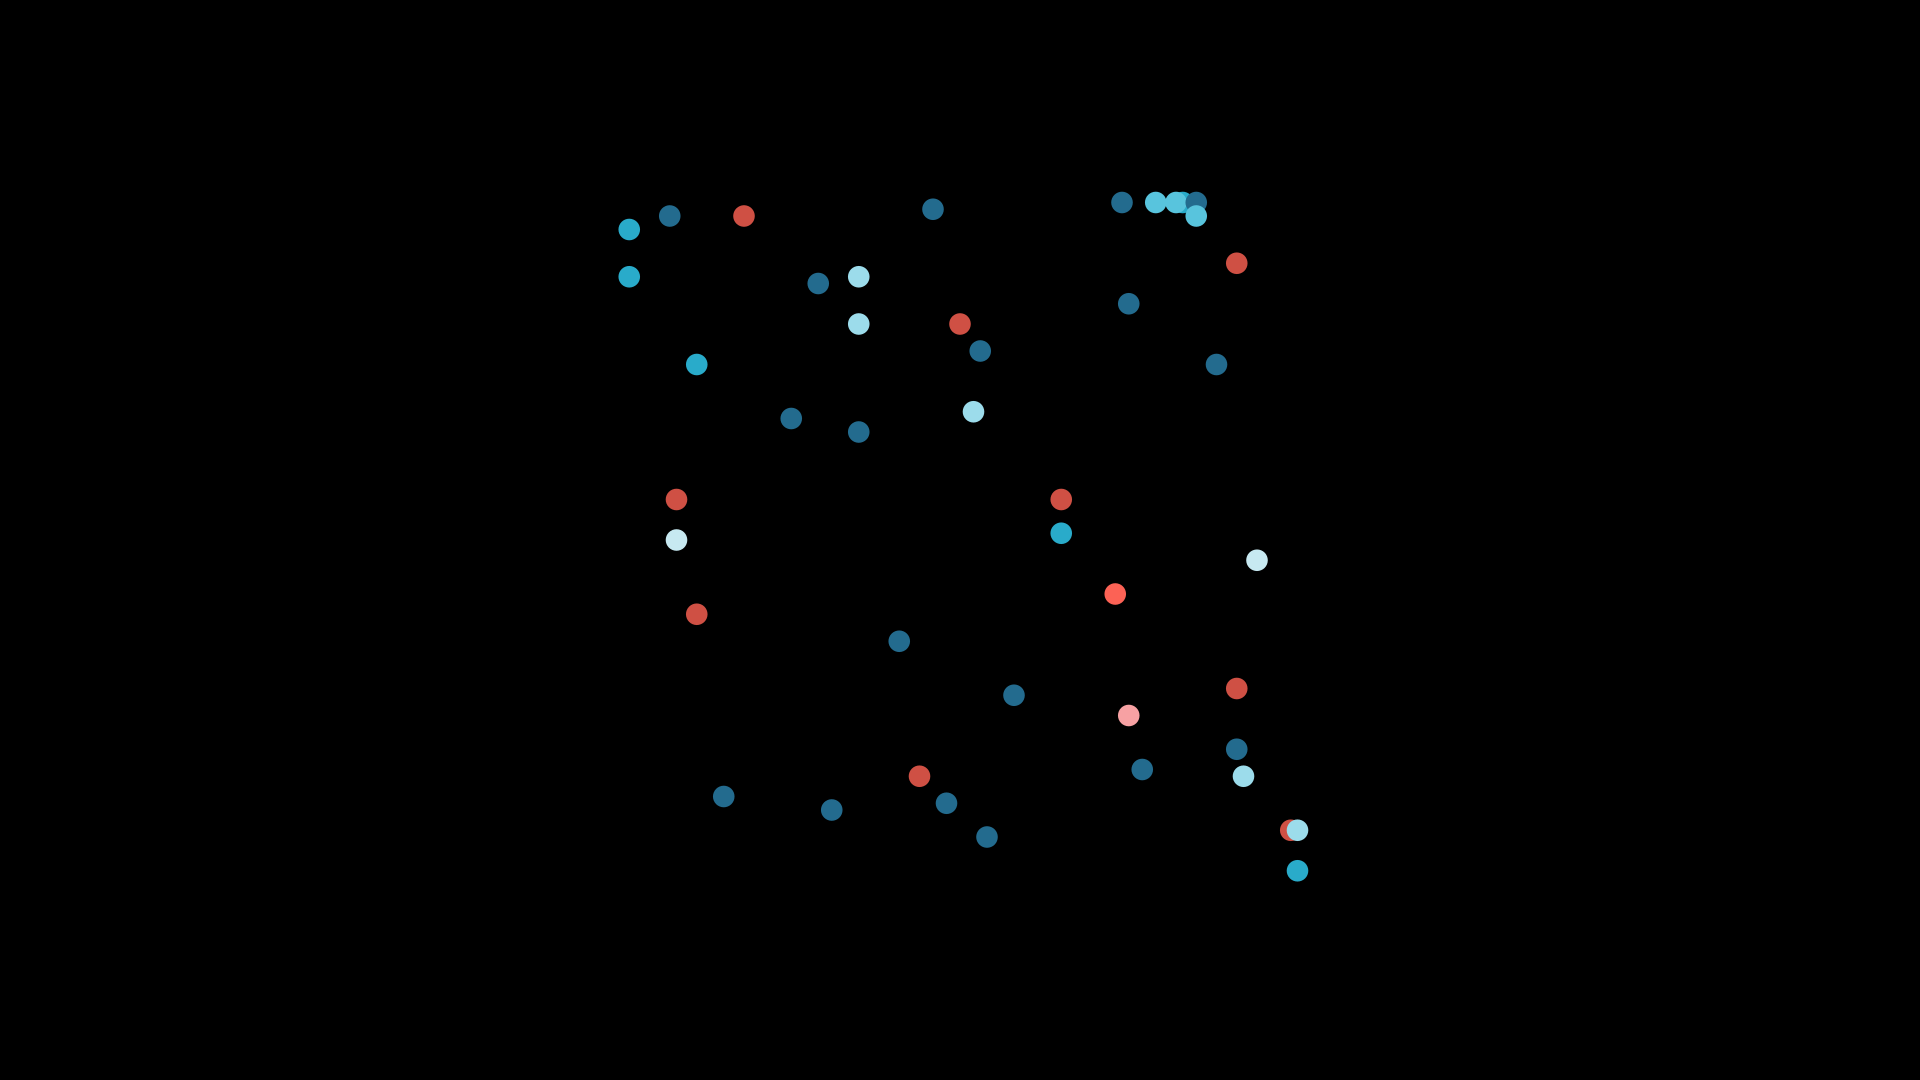
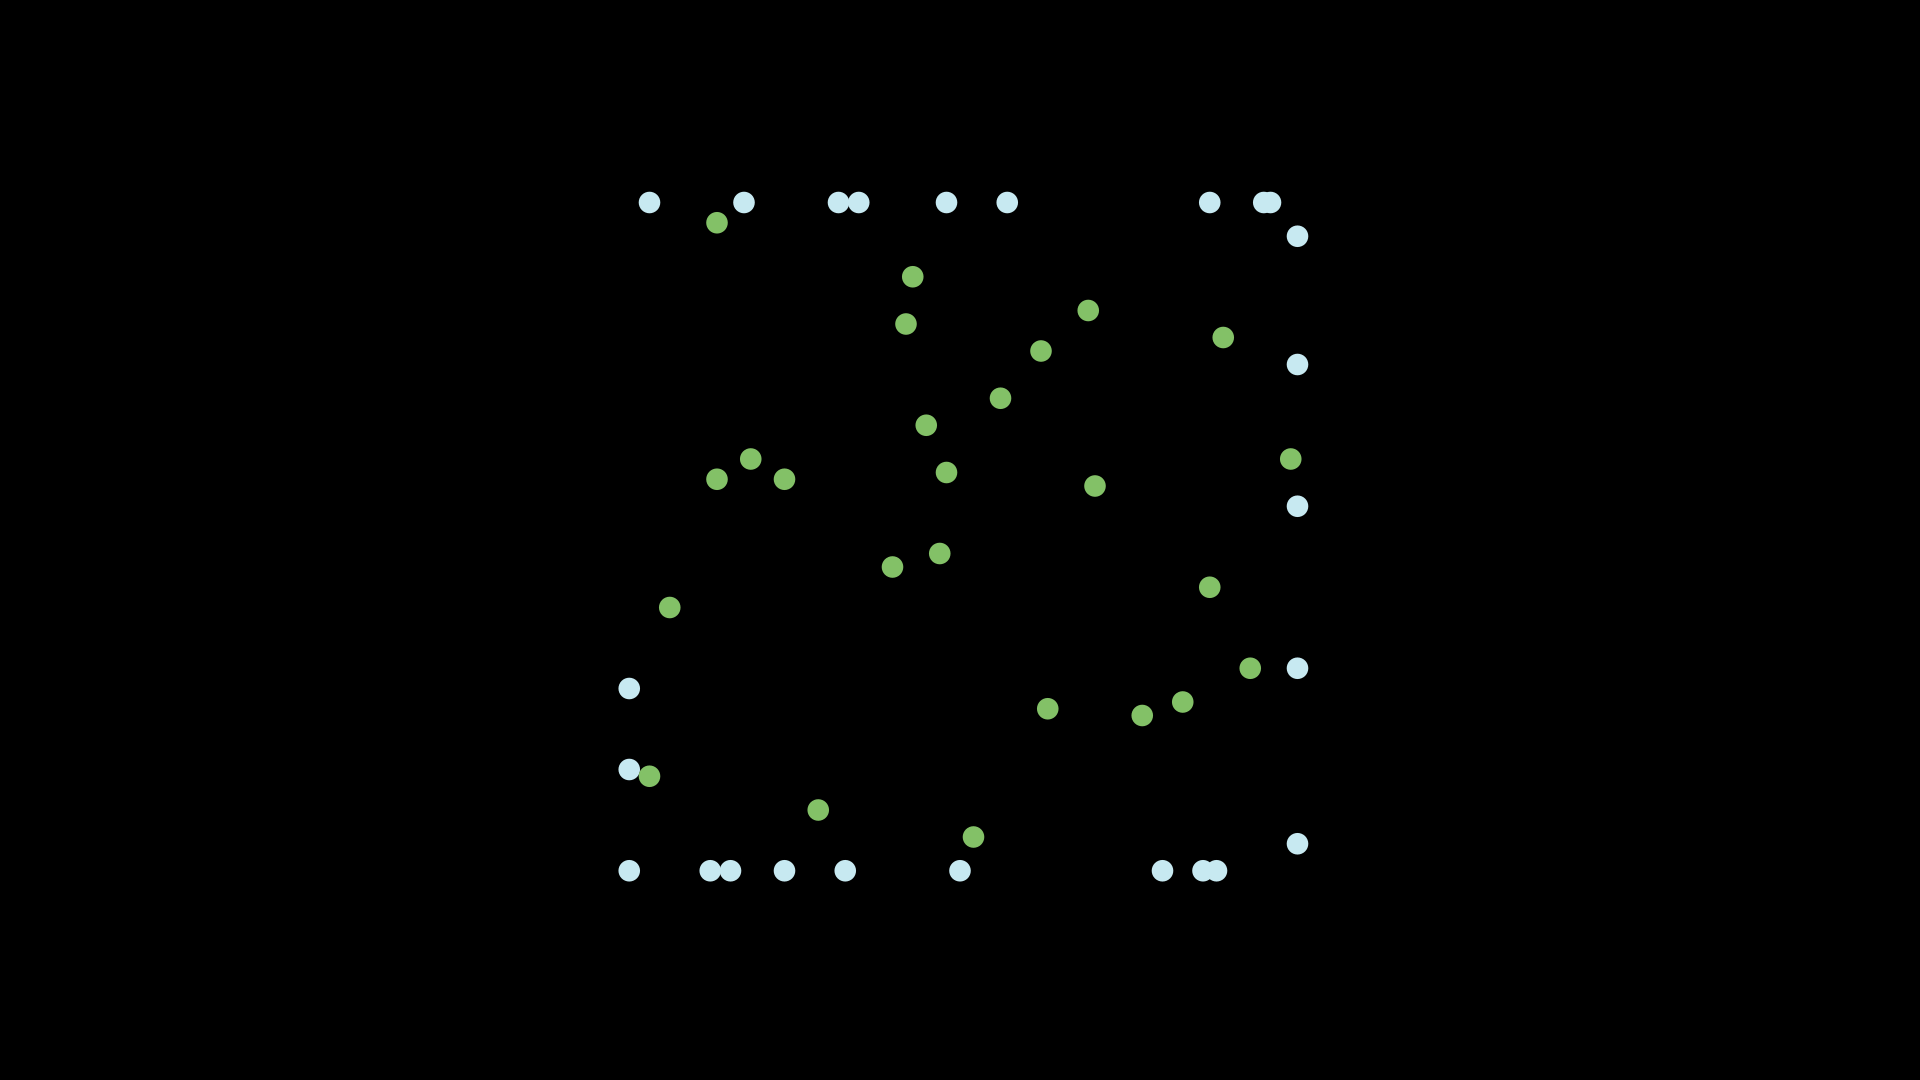
Ajout prévisualiser le territoire

diff --git a/Application/UI/Form.py b/Application/UI/Form.py
@@ -3,9 +3,9 @@ import tkinter as tk
 from PIL import Image
 import os
 from matplotlib.backends.backend_tkagg import FigureCanvasTkAgg
-import FormGraph as fg
-import sys
 import pathlib
+import sys
+import FormGraph as fg
 import math
 workingDirectory = pathlib.Path().resolve()
 sys.path.append(str(workingDirectory) + '\Application')
@@ -578,9 +578,6 @@ class Form(ct.CTk):
 
                 lblErrorInForm.configure(text="OK", text_color="green")
             else:
-                fg.generations = fg.objectsToCoordinates(fg.generateLulus())
-                btnGraph.grid(row=11, column=0, columnspan=2, padx=20, pady=10, sticky="we")
-                btnSave.grid(row=11, column=2, padx=20, pady=10, sticky="we")
                 lblErrorInForm.configure(text="Erreur: Veuillez remplir convenablement le formulaire", text_color="red")
                   
         btnSimulate = ct.CTkButton(master=self.frame_1, text="Lancer la Simulation", command=get_allBeforeSimulation)
@@ -749,12 +746,38 @@ class Form(ct.CTk):
             refreshButtons()            
 
         def preview():
-            current_path = os.path.dirname(os.path.realpath(__file__))
-            preview = ct.CTkImage(Image.open(current_path + "/preview.png"), size=(700, 350))
-            previewImage = ct.CTkLabel(master=self, text="", image=preview)
-            previewImage.grid(row=0, column=0, sticky="snwe")
-            btnClose = ct.CTkButton(master=self, text="Fermer la prévisualisation", command=lambda:closePreview(previewImage, btnClose))
-            btnClose.grid(row=1, column=0, padx=20, pady=10, sticky="we")
+            validMapSizeX = get_inputMapSizeX()
+            validMapSizeY = get_inputMapSizeY()
+            validStartFood = get_inputStartFood()
+            validStartLulu = get_inputStartLulu()
+            validEnergy = get_inputEnergy()
+            validSpeed = get_inputSpeed()
+            validSense = get_inputSense()
+            validSize = get_inputSize()
+            validMutation = get_inputMutation()
+            validGeneration = get_inputGeneration()
+            print(validMapSizeX)
+            if(type(validMapSizeX) is int
+               and type(validMapSizeY) is int
+               and type(validStartFood) is int
+               and type(validStartLulu) is int
+               and type(validEnergy) is int
+               and type(validSpeed) is int
+               and type(validSense) is int
+               and type(validSize) is int
+               and type(validMutation) is int
+               and type(validGeneration) is int):
+                
+                Simulation.newMap(validMapSizeX, validMapSizeY, validStartFood, validStartLulu)
+                # current_path = os.path.dirname(os.path.realpath(__file__))
+                current_path = os.getcwd()
+                preview = ct.CTkImage(Image.open(str(current_path) + "\media\images\VisualizeLulus_ManimCE_v0.17.2.png"), size=(700, 350))
+                previewImage = ct.CTkLabel(master=self, text="", image=preview)
+                previewImage.grid(row=0, column=0, sticky="snwe")
+                btnClose = ct.CTkButton(master=self, text="Fermer la prévisualisation", command=lambda:closePreview(previewImage, btnClose))
+                btnClose.grid(row=1, column=0, padx=20, pady=10, sticky="we")
+            else:
+                lblErrorInForm.configure(text="Erreur: Veuillez remplir convenablement le formulaire", text_color="red")
 
         def closePreview(previewImage, btnClose):
             previewImage.destroy()
@@ -773,6 +796,6 @@ class Form(ct.CTk):
         lblErrorInForm = ct.CTkLabel(master=self.frame_1, height=100, justify=ct.CENTER, text="")
         lblErrorInForm.grid(row=13, column=0, columnspan=3, padx=20, pady=10)
 
-if __name__ == "__main__":
-    app = Form()
-    app.mainloop()
+# if __name__ == "__main__":
+#     app = Form()
+#     app.mainloop()

diff --git a/Application/main.py b/Application/main.py
@@ -1,68 +1,9 @@
-from manim import *
-from manim.utils.file_ops import open_file as open_media_file
-import SimulationManager as Simulation
-import Models.Territory as Territory
-from Models.Lulu import Lulu
-from Models.Food import Food
-from Models.Position import Position
-import time
-import random
-
-class VisualizeLulus(Scene):
-    def construct(self):
-
-        items = Territory.getMap()
-        # SIZE = 1/5 du plus petit x ou y?
-        SIZE=Territory.getSizeX()/5 if Territory.getSizeX() < Territory.getSizeY() else Territory.getSizeY()/5
-        # CENTERX = /2
-        CENTERX = Territory.getSizeX()/2
-        # CENTERY = /2
-        CENTERY = Territory.getSizeY()/2
-
-        groupdots = VGroup()
-
-        maxSize = max(lulu.size for lulu in Territory.getLulus())
-        minSize = min(lulu.size for lulu in Territory.getLulus())
-        rangeOfSizes = maxSize - minSize
-
-        for position in items:
-            item = items.get(position)
-            if(type(item) == Lulu):
-                if(item.isDone):
-                    rangeOfColors = rangeOfSizes/6
-                    if item.size <= minSize + (rangeOfColors):
-                        dot = Dot([(position.x - CENTERX)/SIZE, (position.y - CENTERY)/SIZE, 0], color=RED_A)
-                    elif item.size <= minSize + 2*(rangeOfColors):
-                        dot = Dot([(position.x - CENTERX)/SIZE, (position.y - CENTERY)/SIZE, 0], color=RED_B)
-                    elif item.size <= minSize + 3*(rangeOfColors):
-                        dot = Dot([(position.x - CENTERX)/SIZE, (position.y - CENTERY)/SIZE, 0], color=RED_C)
-                    elif item.size <= minSize + 4*(rangeOfColors):
-                        dot = Dot([(position.x - CENTERX)/SIZE, (position.y - CENTERY)/SIZE, 0], color=RED_D)
-                    else:
-                        dot = Dot([(position.x - CENTERX)/SIZE, (position.y - CENTERY)/SIZE, 0], color=RED_E)
-                else:
-                    rangeOfColors = rangeOfSizes/6
-                    if item.size <= minSize + (rangeOfColors):
-                        dot = Dot([(position.x - CENTERX)/SIZE, (position.y - CENTERY)/SIZE, 0], color=BLUE_A)
-                    elif item.size <= minSize + 2*(rangeOfColors):
-                        dot = Dot([(position.x - CENTERX)/SIZE, (position.y - CENTERY)/SIZE, 0], color=BLUE_B)
-                    elif item.size <= minSize + 3*(rangeOfColors):
-                        dot = Dot([(position.x - CENTERX)/SIZE, (position.y - CENTERY)/SIZE, 0], color=BLUE_C)
-                    elif item.size <= minSize + 4*(rangeOfColors):
-                        dot = Dot([(position.x - CENTERX)/SIZE, (position.y - CENTERY)/SIZE, 0], color=BLUE_D)
-                    else:
-                        dot = Dot([(position.x - CENTERX)/SIZE, (position.y - CENTERY)/SIZE, 0], color=BLUE_E)
-            elif(type(item) == Food):
-                dot = Dot([(position.x - CENTERX)/SIZE, (position.y - CENTERY)/SIZE, 0], color=GREEN)
-            groupdots.add(dot)
-
-        self.add(groupdots)
-
-def renderAnimation():
-    """Génère une image de l'état actuel du :class:`Territory`
-    """
-    scene = VisualizeLulus()
-    scene.render()
+import pathlib
+import sys
+workingDirectory = pathlib.Path().resolve()
+sys.path.append(str(workingDirectory) + '\\Application\\UI')
+from Form import Form
 
 if __name__ == '__main__':
-    Simulation.__run__(100, 100, 50, 10, 25, 25, 10, 10000000, 100, 50)
+    app = Form()
+    app.mainloop()

diff --git a/Application/SimulationManager.py b/Application/SimulationManager.py
@@ -1,10 +1,71 @@
 import Models.Territory as Territory
 import time
-
-# À enlever -> pour test
-import random
+from manim import *
+from manim.utils.file_ops import open_file as open_media_file
+from Models.Lulu import Lulu
+from Models.Food import Food
 
 generationMoves = []
+class VisualizeLulus(Scene):
+    def construct(self):
+
+        items = Territory.getMap()
+        # SIZE = 1/5 du plus petit x ou y?
+        SIZE=Territory.getSizeX()/5 if Territory.getSizeX() < Territory.getSizeY() else Territory.getSizeY()/5
+        # CENTERX = /2
+        CENTERX = Territory.getSizeX()/2
+        # CENTERY = /2
+        CENTERY = Territory.getSizeY()/2
+
+        groupdots = VGroup()
+
+        maxSize = max(lulu.size for lulu in Territory.getLulus())
+        minSize = min(lulu.size for lulu in Territory.getLulus())
+        rangeOfSizes = maxSize - minSize
+
+        for position in items:
+            item = items.get(position)
+            if(type(item) == Lulu):
+                if(item.isDone):
+                    rangeOfColors = rangeOfSizes/6
+                    if item.size <= minSize + (rangeOfColors):
+                        dot = Dot([(position.x - CENTERX)/SIZE, (position.y - CENTERY)/SIZE, 0], color=RED_A)
+                    elif item.size <= minSize + 2*(rangeOfColors):
+                        dot = Dot([(position.x - CENTERX)/SIZE, (position.y - CENTERY)/SIZE, 0], color=RED_B)
+                    elif item.size <= minSize + 3*(rangeOfColors):
+                        dot = Dot([(position.x - CENTERX)/SIZE, (position.y - CENTERY)/SIZE, 0], color=RED_C)
+                    elif item.size <= minSize + 4*(rangeOfColors):
+                        dot = Dot([(position.x - CENTERX)/SIZE, (position.y - CENTERY)/SIZE, 0], color=RED_D)
+                    else:
+                        dot = Dot([(position.x - CENTERX)/SIZE, (position.y - CENTERY)/SIZE, 0], color=RED_E)
+                else:
+                    rangeOfColors = rangeOfSizes/6
+                    if item.size <= minSize + (rangeOfColors):
+                        dot = Dot([(position.x - CENTERX)/SIZE, (position.y - CENTERY)/SIZE, 0], color=BLUE_A)
+                    elif item.size <= minSize + 2*(rangeOfColors):
+                        dot = Dot([(position.x - CENTERX)/SIZE, (position.y - CENTERY)/SIZE, 0], color=BLUE_B)
+                    elif item.size <= minSize + 3*(rangeOfColors):
+                        dot = Dot([(position.x - CENTERX)/SIZE, (position.y - CENTERY)/SIZE, 0], color=BLUE_C)
+                    elif item.size <= minSize + 4*(rangeOfColors):
+                        dot = Dot([(position.x - CENTERX)/SIZE, (position.y - CENTERY)/SIZE, 0], color=BLUE_D)
+                    else:
+                        dot = Dot([(position.x - CENTERX)/SIZE, (position.y - CENTERY)/SIZE, 0], color=BLUE_E)
+            elif(type(item) == Food):
+                dot = Dot([(position.x - CENTERX)/SIZE, (position.y - CENTERY)/SIZE, 0], color=GREEN)
+            groupdots.add(dot)
+
+        self.add(groupdots)
+
+def renderAnimation():
+    """Génère une image de l'état actuel du :class:`Territory`
+    """
+    scene = VisualizeLulus()
+    scene.render()
+
+def newMap(sizeX, sizeY, foodCount, lulusCount):
+    Territory.createMap(sizeX, sizeY, foodCount, lulusCount, 0, 0, 0, 0, 0, 0, 0, 0)
+
+    renderAnimation()
 
 def __run__(sizeX, sizeY, foodCount, lulusCount, speedVariation, senseVariation, sizeVariation, energy, nbGeneration, mutateChance):
     speed = 25 

diff --git a/Application/Models/Territory.py b/Application/Models/Territory.py
@@ -59,7 +59,6 @@ __moves = []
 __numberOfFood = 0
 EATING_RATIO = 1.2
 
-
 def createMap(sizeX, sizeY, foodCount, lulusCount, speed, sense, energy, size, mutateChance, speedVariation, senseVariation, sizeVariation):
     """Crée (instancie) une carte (map) avec une taille X et Y ainsi qu'un nombre donné de nourriture et de Lulus
 
@@ -91,6 +90,7 @@ def createMap(sizeX, sizeY, foodCount, lulusCount, speed, sense, energy, size, m
     __senseVariation = senseVariation /100
     __sizeVariation = sizeVariation /100
 
+    clearMap()
     # Créer x lulus dans la map (La map va de 0 à maxX ou maxY)
     # Les mettre sur le côté
     for _ in range(__lulusCount):
@@ -118,6 +118,11 @@ def createMap(sizeX, sizeY, foodCount, lulusCount, speed, sense, energy, size, m
 
 # private
 
+def clearMap():
+    global __lulus
+    global __map
+    __lulus = []
+    __map = {}
 
 def __CreateLulu(rx, ry, speed, sense, size, energyRemaining, FoodCollected, isDone) -> bool:
     """Crée une Lulu et la place sur les bords de la carte selon une position donnée et l'instancie avec des paramètres de base
